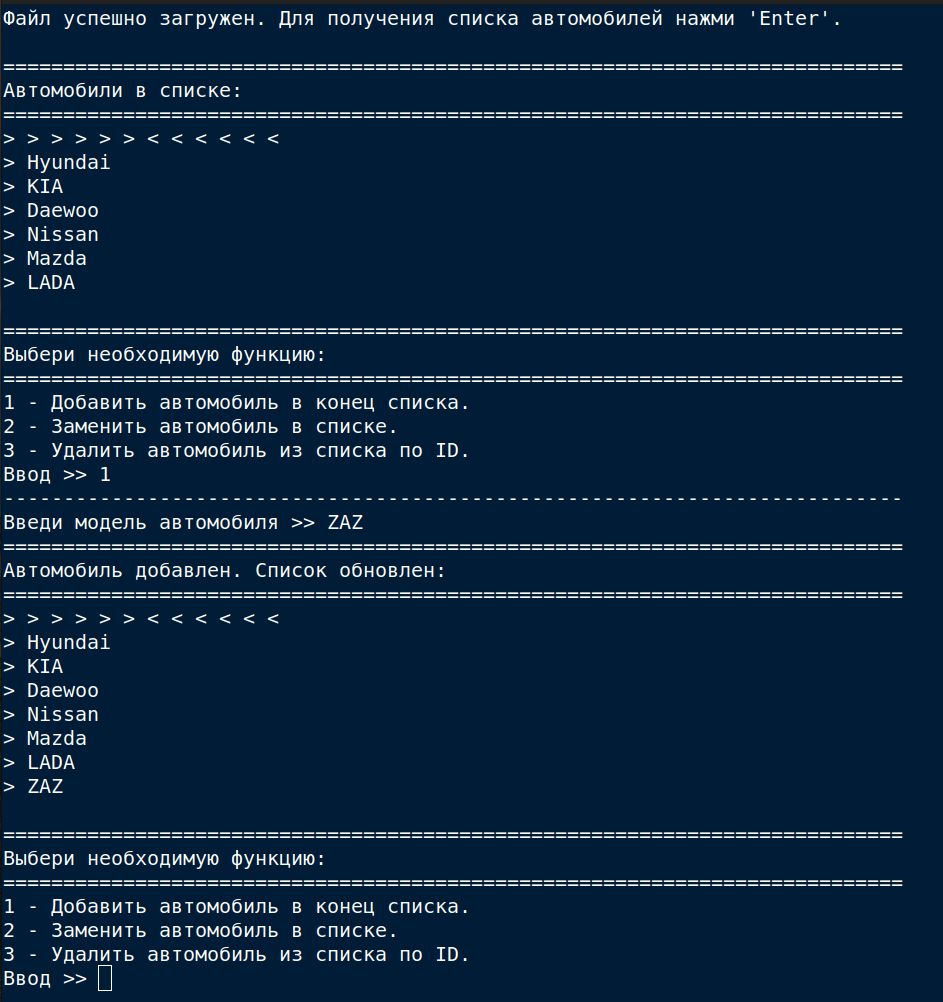
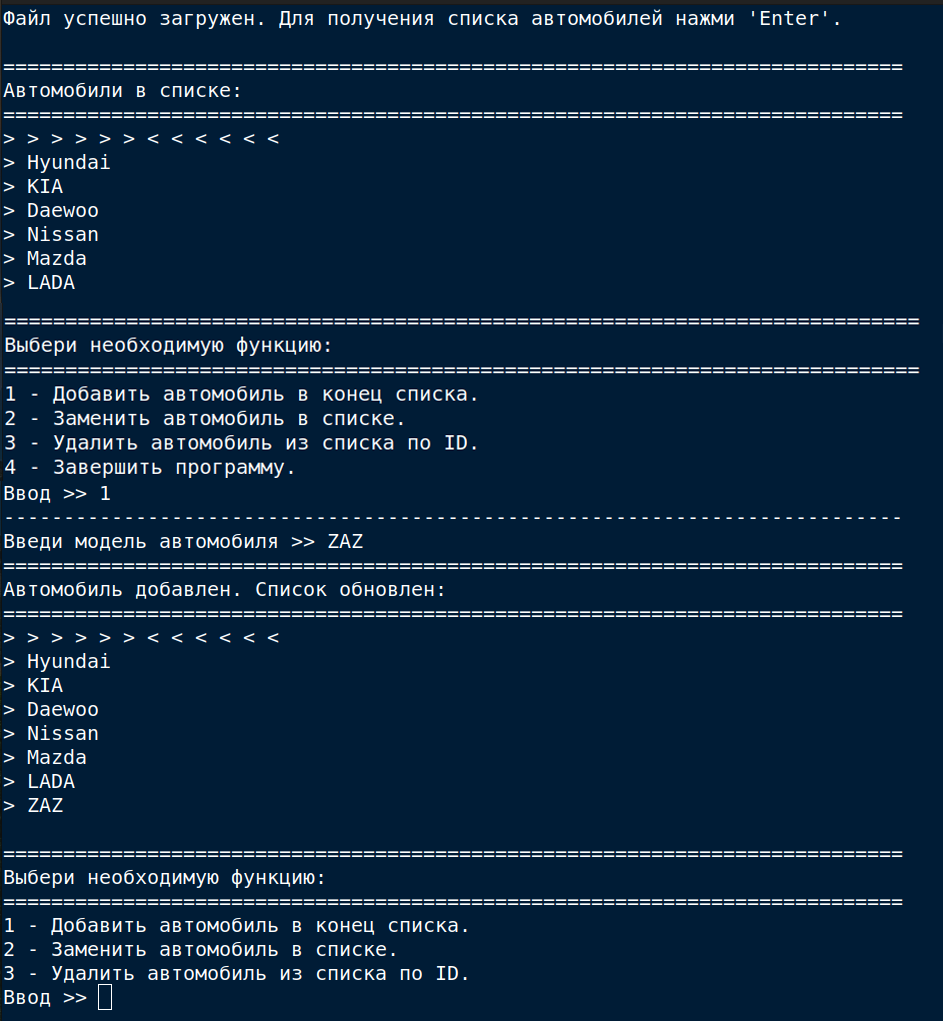
Added diagram, edited screenshot

diff --git a/Lesson.04/Task.1/car_list.rb b/Lesson.04/Task.1/car_list.rb
@@ -17,7 +17,7 @@ puts "#{index}"
 
 loop do
   puts "\nВыбери необходимую функцию:\n".center(179, "=")
-    print"1 - Добавить автомобиль в конец списка.\n2 - Заменить автомобиль в списке.\n3 - Удалить автомобиль из списка по ID.\n4 - Завершить программу.\nВвод >> "
+    print">1 - Добавить автомобиль в конец списка.\n>2 - Заменить автомобиль в списке.\n>3 - Удалить автомобиль из списка по ID.\n>4 - Завершить программу.\nВвод >> "
     function = gets.chomp.to_i
 
   if function == 1
